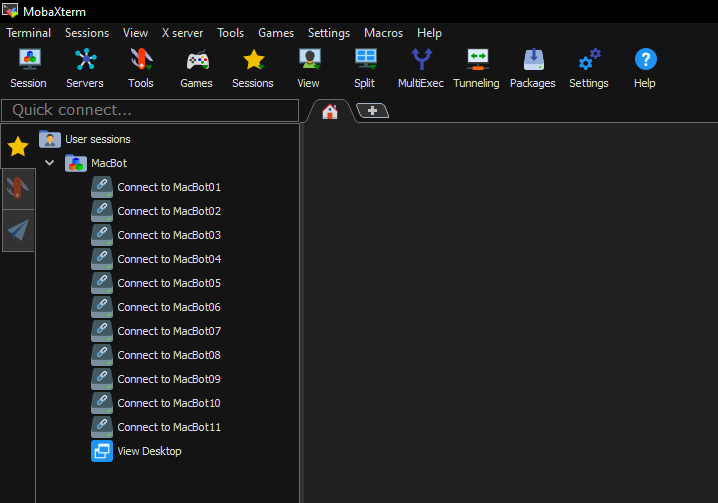
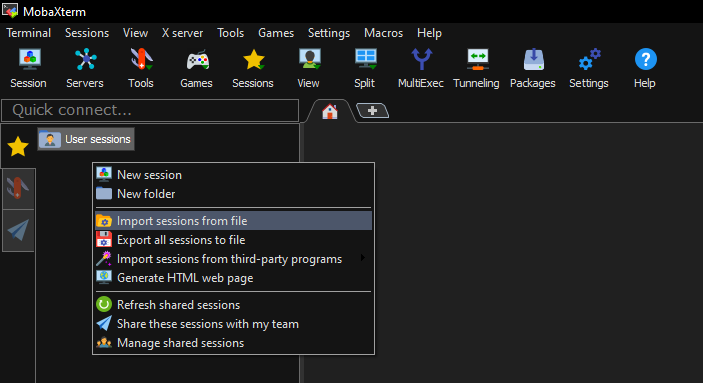
GITBOOK-10: No subject

Changed region(s): [[0.0, 0.0, 0.9559, 1.0], [0.5078, 0.7467, 0.5377, 0.7755]]

diff --git a/docs/connect.md b/docs/connect.md
@@ -18,7 +18,7 @@ Use 7Zip or Windows Zip Extractor to extract the compressed folder into the Down
 
 Run the MobaXTerm MSI installer with the default configuration.
 
-<figure><img src=".gitbook/assets/image (8).png" alt=""><figcaption></figcaption></figure>
+<figure><img src=".gitbook/assets/image (1).png" alt=""><figcaption></figcaption></figure>
 
 ## MobaXTerm Session
 
@@ -30,17 +30,63 @@ MobaXTerm Session File
 
 Open MobaXTerm and load the downloaded session file.
 
-<figure><img src=".gitbook/assets/image (1).png" alt=""><figcaption></figcaption></figure>
+<figure><img src=".gitbook/assets/image (2).png" alt=""><figcaption></figcaption></figure>
 
-<figure><img src=".gitbook/assets/image (3).png" alt=""><figcaption></figcaption></figure>
+<figure><img src=".gitbook/assets/image.png" alt=""><figcaption></figcaption></figure>
 
 ## Connecting to the MacBot
 
 Ensure that you are connected to Mac-WiFi.
 
-![](.gitbook/assets/image.png)
+![](<.gitbook/assets/image (6).png>)
 
-<figure><img src=".gitbook/assets/image (7).png" alt=""><figcaption></figcaption></figure>
+Ensure that your MacBot is powered ON and booted by waiting 2 minutes.
+
+Click **Connect to MacBot##**.
+
+<figure><img src=".gitbook/assets/MicrosoftTeams-image.png" alt=""><figcaption></figcaption></figure>
+
+Enter the password for your MacBot, which can be found here:
+
+{% content-ref url="setup.md" %}
+[setup.md](setup.md)
+{% endcontent-ref %}
+
+Run neofetch to verify that you are connected to the correct machine.
+
+{% tabs %}
+{% tab title="Run NeoFetch" %}
+```bash
+neofetch
+```
+{% endtab %}
+
+{% tab title="Install NeoFetch" %}
+```
+sudo apt -y install neofetch
+```
+{% endtab %}
+{% endtabs %}
+
+<figure><img src=".gitbook/assets/MicrosoftTeams-image(3).png" alt=""><figcaption></figcaption></figure>
+
+Ensure that the VNC server is running on port 5902 using the following command:
+
+```bash
+vncserver -list
+```
+
+<figure><img src=".gitbook/assets/MicrosoftTeams-image(4).png" alt=""><figcaption></figcaption></figure>
+
+Connect to the MacBot by pressing the **View Desktop** button.
+
+<figure><img src=".gitbook/assets/MicrosoftTeams-image(5).png" alt=""><figcaption></figcaption></figure>
+
+You will be prompted for your password once more. Press **OK**.
+
+After a few moments, you will be able to see and interact with your desktop.
+
+<figure><img src=".gitbook/assets/MicrosoftTeams-image(6).png" alt=""><figcaption></figcaption></figure>
 
 Click **Fullscreen** and untoggle **Always on Top**.
 
